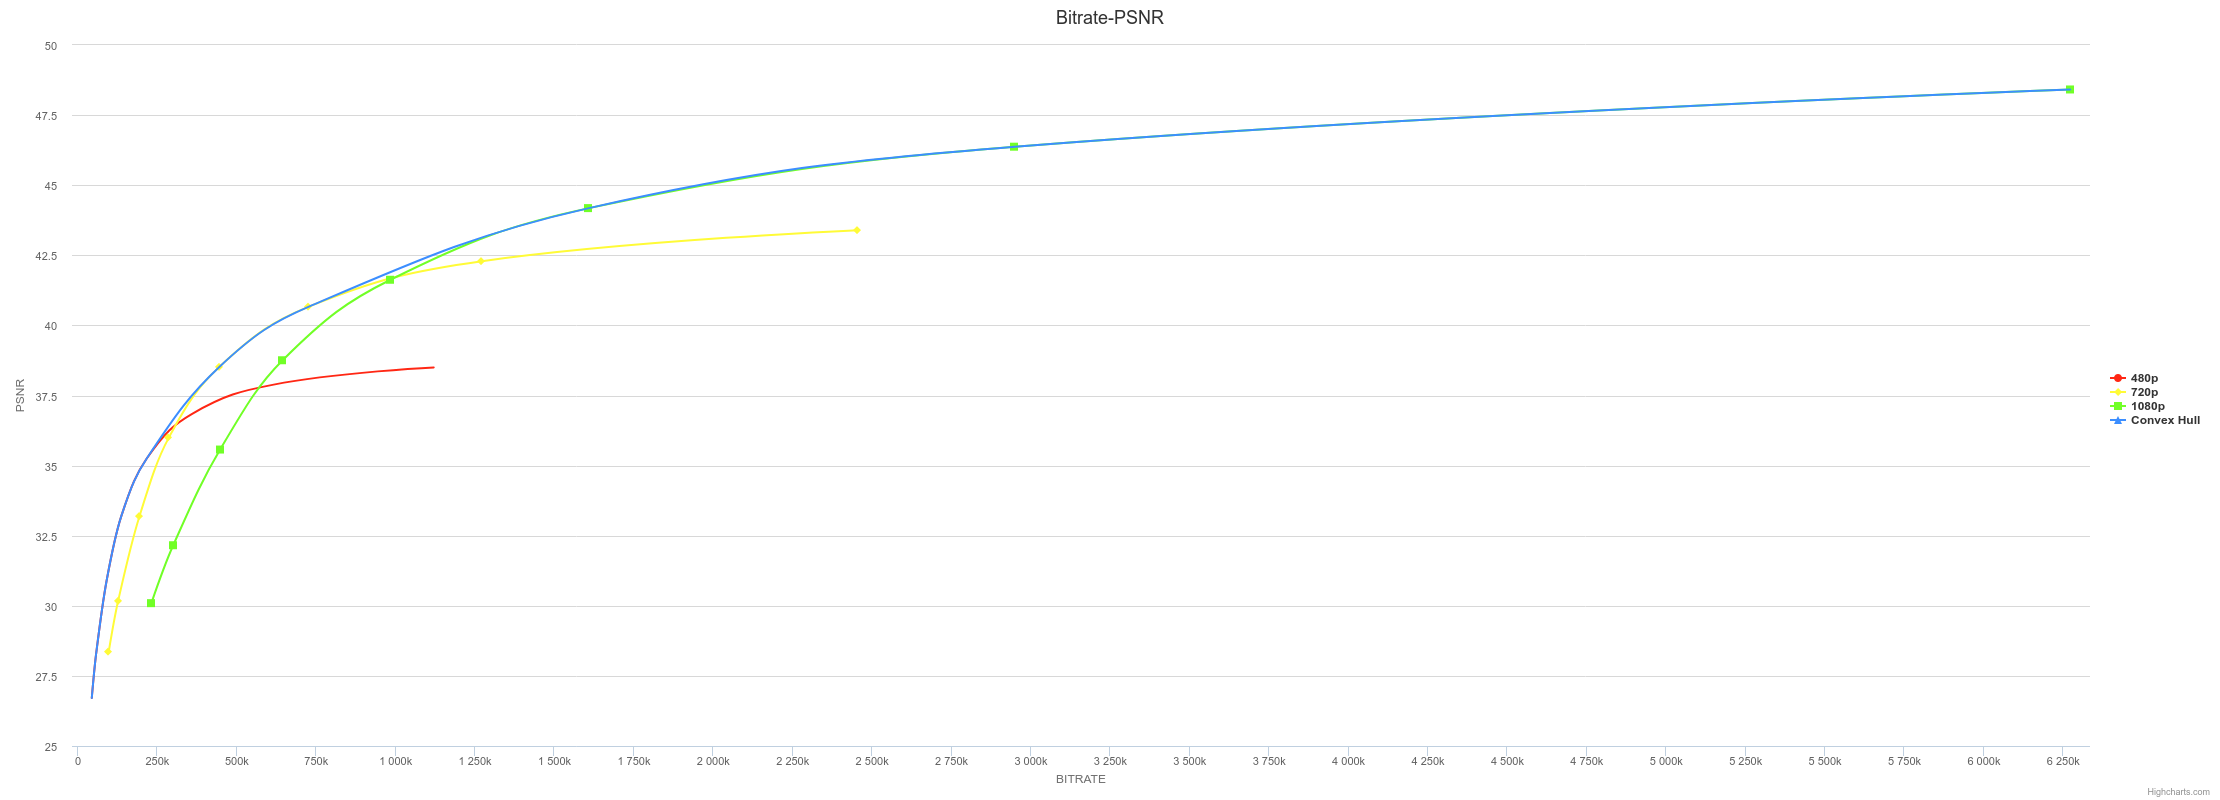
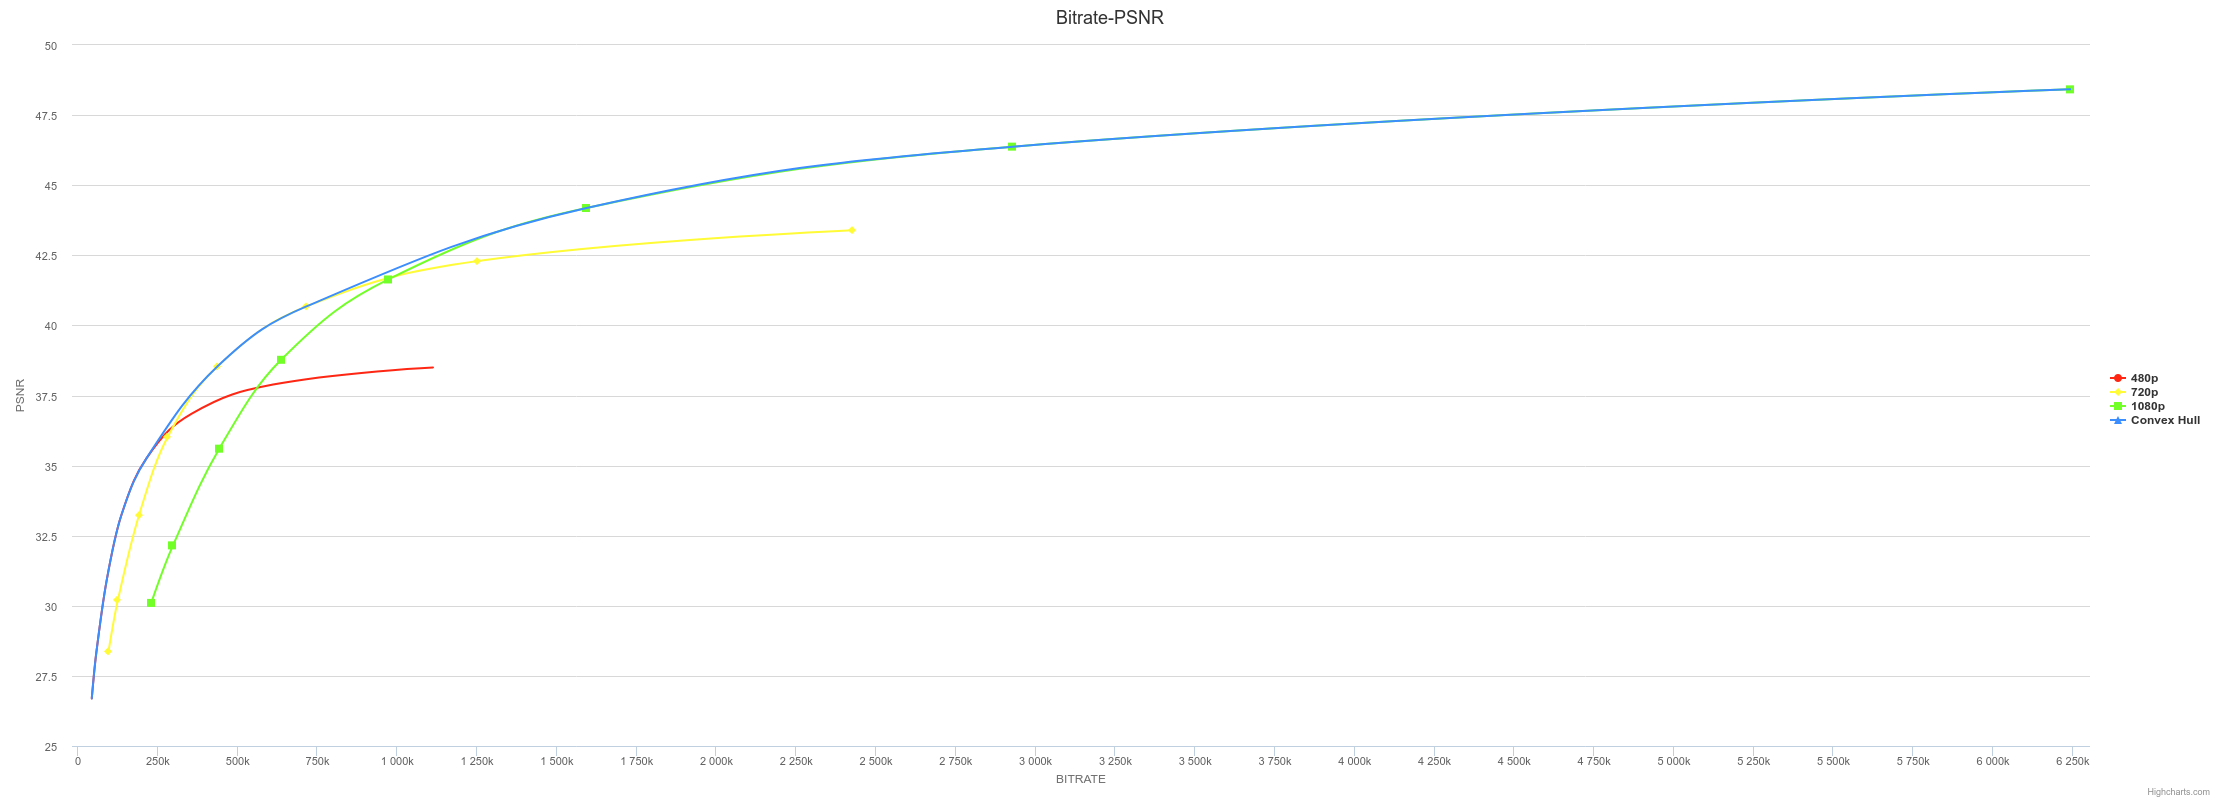
added new plots and added filename for chart file

diff --git a/src/BigKill1min1.html b/src/BigKill1min1.html
@@ -1,6 +1,6 @@
 <html>
 <head>
-    <title>Highcharts Client-Side Export module</title>
+    <title>Encoding plots for BigKill1min</title>
 
     <meta charset="UTF-8">
 
@@ -9,9 +9,9 @@
 </head>
 <body>
 <div class="container">
-    <h1>Highcharts Client-Side Export module</h1>
+    <h1>Encoding plots for BigKill1min</h1>
 
-    <div class="highcharts-container" id="example-1"></div>
+    <div class="highcharts-container" id="encodedChart"></div>
 
 
     <script src="bower_components/jquery/dist/jquery.min.js"></script>
@@ -38,7 +38,7 @@
     </script>
 
     <script>
-        $('#example-1').highcharts({
+        $('#encodedChart').highcharts({
             title: {
                 text: 'Bitrate-PSNR'
 
@@ -71,17 +71,21 @@
             colors: ['#FF2714', '#FFFB37','#71FF27','#3C8EFF'],
             series: [{
                 name: '480p',
-                data:[[30049,23.169607],[33413,23.296609],[54788,23.703465],[87898,23.855704],[143860,23.902133],[241944,23.91187],[426805,23.912211],[795827,23.910381]]
+                data:[[30049,23.169607],[41128,23.511388],[66288,23.782689],[107154,23.880668],[175996,23.908132],[301649,23.912058],[544395,23.911468],[1036657,23.909448]]
             }, {
                 name: '720p',
-                data:[[65189,23.506791],[72362,23.583342],[117267,23.846081],[185303,23.905994],[299339,23.909201],[502071,23.899726],[891947,23.889742],[1715798,23.883077]]
+                data:[[65189,23.506791],[88397,23.721296],[140718,23.883483],[223696,23.908125],[366776,23.906206],[626997,23.895524],[1149039,23.886806],[2281218,23.881228]]
             }, {
                     name: '1080p',
-                    data:[[155309,23.650978],[170675,23.715938],[272966,23.887257],[419266,23.908772],[669244,23.90083],[1125207,23.886772],[2064159,23.875785],[4240915,23.867694]]
+                    data:[[155309,23.650978],[208076,23.810913],[323439,23.902117],[503119,23.907885],[817107,23.89542],[1414601,23.882115],[2726354,23.8721],[5776997,23.865929]]
                 }, {
                     name: 'Convex Hull',
-                    data:[[30049,23.169607],[33413,23.296609],[54788,23.703465],[87898,23.855704],[143860,23.902133],[241944,23.91187],[426805,23.912211],[795827,23.910381],[4240915,23.867694]]
-                }]
+                    data:[[30049,23.169607],[41128,23.511388],[66288,23.782689],[107154,23.880668],[175996,23.908132],[301649,23.912058],[544395,23.911468],[1036657,23.909448],[5776997,23.865929]]
+                }],
+            exporting: {
+                filename: 'BigKill1min'
+
+            }
         });
     </script>
 

diff --git a/src/SpiesInDisguise1.html b/src/SpiesInDisguise1.html
@@ -1,6 +1,6 @@
 <html>
 <head>
-    <title>Highcharts Client-Side Export module</title>
+    <title>Encoding plots for SpiesInDisguise</title>
 
     <meta charset="UTF-8">
 
@@ -9,7 +9,7 @@
 </head>
 <body>
 <div class="container">
-    <h1>Highcharts Client-Side Export module</h1>
+    <h1>Encoding plots for SpiesInDisguise</h1>
 
     <div class="highcharts-container" id="example-1"></div>
 
@@ -71,16 +71,16 @@
             colors: ['#FF2714', '#FFFB37','#71FF27','#3C8EFF'],
             series: [{
                 name: '480p',
-                data:[[43335,26.712582],[57199,28.298952],[89815,30.882939],[136536,33.20907],[216314,35.253849],[357996,36.839412],[615994,37.888422],[1119869,38.502419]]
+                data:[[42792,26.697349],[56646,28.295891],[89180,30.890583],[134857,33.210068],[214022,35.256782],[354813,36.843282],[610867,37.888811],[1111913,38.502096]]
             }, {
                 name: '720p',
-                data:[[96692,28.362426],[126359,30.177229],[193459,33.195352],[286249,36.00699],[444754,38.519173],[726983,40.668907],[1271557,42.290306],[2454802,43.395833]]
+                data:[[95282,28.37628],[124751,30.212638],[190765,33.231747],[280899,36.026976],[437100,38.541866],[715219,40.676972],[1252552,42.295826],[2426801,43.397069]]
             }, {
                     name: '1080p',
-                    data:[[230895,30.094213],[299723,32.159764],[447381,35.572558],[644215,38.75705],[983655,41.627653],[1608446,44.183189],[2949443,46.373149],[6271752,48.414021]]
+                    data:[[228981,30.102869],[297161,32.155076],[442136,35.603594],[636091,38.773637],[971749,41.638431],[1593064,44.187553],[2928519,46.375179],[6241709,48.417799]]
                 }, {
                     name: 'Convex Hull',
-                    data:[[43335,26.712582],[57199,28.298952],[89815,30.882939],[136536,33.20907],[216314,35.253849],[444754,38.519173],[726983,40.668907],[1608446,44.183189],[2949443,46.373149],[6271752,48.414021]]
+                    data:[[42792,26.697349],[56646,28.295891],[89180,30.890583],[134857,33.210068],[214022,35.256782],[437100,38.541866],[715219,40.676972],[1593064,44.187553],[2928519,46.375179],[6241709,48.417799]]
                 }]
         });
     </script>

diff --git a/src/EncodingApplication.js b/src/EncodingApplication.js
@@ -1,4 +1,4 @@
-var inputVideoFile = "../resource/TOS3sec.mp4";
+var inputVideoFile = "../resource/Sparks2min.mp4";
 var commonName = inputVideoFile.split('resource/')[1].split('.')[0];
 var ffmpeg = require('fluent-ffmpeg');
 var fs = require('fs');
@@ -256,7 +256,7 @@ function printHullPoints() {
 
    var htmlData = "<html>\n" +
         "<head>\n" +
-        "    <title>Highcharts Client-Side Export module</title>\n" +
+        "    <title>Encoding plots for "+commonName+"</title>\n" +
         "\n" +
         "    <meta charset=\"UTF-8\">\n" +
         "\n" +
@@ -265,9 +265,9 @@ function printHullPoints() {
         "</head>\n" +
         "<body>\n" +
         "<div class=\"container\">\n" +
-        "    <h1>Highcharts Client-Side Export module</h1>\n" +
+        "    <h1>Encoding plots for "+commonName+"</h1>\n" +
         "\n" +
-        "    <div class=\"highcharts-container\" id=\"example-1\"></div>\n" +
+        "    <div class=\"highcharts-container\" id=\"encodedChart\"></div>\n" +
         "\n" +
         "\n" +
         "    <script src=\"bower_components/jquery/dist/jquery.min.js\"></script>\n" +
@@ -294,7 +294,7 @@ function printHullPoints() {
         "    </script>\n" +
         "\n" +
         "    <script>\n" +
-        "        $('#example-1').highcharts({\n" +
+        "        $('#encodedChart').highcharts({\n" +
         "            title: {\n" +
         "                text: 'Bitrate-PSNR'\n" +
         "\n" +
@@ -337,7 +337,11 @@ function printHullPoints() {
         "                }, {\n" +
         "                    name: 'Convex Hull',\n" +
         "                    data:"+JSON.stringify(hull2D)+"\n" +
-        "                }]\n" +
+        "                }],\n" +
+       "            exporting: {\n" +
+       "                filename: '"+commonName+"'\n" +
+       "\n" +
+       "            }\n" +
         "        });\n" +
         "    </script>\n" +
         "\n" +
@@ -474,7 +478,7 @@ app.use(express.static('public'));
 app.use(express.static('images'));
 
 app.get('/start', function(req, res){
-    res.send("Start");
+    res.send("Encoding has begun..");
     processingInputFile(18,640,480,0);
 });
 

diff --git a/src/BBB2min1.html b/src/BBB2min1.html
@@ -1,6 +1,6 @@
 <html>
 <head>
-    <title>Highcharts Client-Side Export module</title>
+    <title>Encoding plots for BBB2min</title>
 
     <meta charset="UTF-8">
 
@@ -71,16 +71,16 @@
             colors: ['#FF2714', '#FFFB37','#71FF27','#3C8EFF'],
             series: [{
                 name: '480p',
-                data:[[22522,25.481455],[31826,26.686528],[54299,28.619178],[91075,30.386906],[160397,32.03424],[300431,33.416833],[590437,34.350461],[1193035,34.872407]]
+                data:[[22430,25.463314],[31789,26.692328],[54211,28.622372],[90950,30.390267],[160233,32.037269],[299555,33.418234],[589580,34.351634],[1191310,34.872815]]
             }, {
                 name: '720p',
-                data:[[50660,26.522935],[72812,27.916255],[122786,30.205606],[203587,32.371509],[351648,34.513896],[640855,36.419914],[1245811,37.843725],[2547572,38.75585]]
+                data:[[50383,26.516839],[72126,27.918065],[121857,30.204446],[202392,32.372706],[349874,34.513581],[638477,36.421936],[1242439,37.844616],[2542152,38.755836]]
             }, {
                     name: '1080p',
-                    data:[[126631,27.719809],[180622,29.381096],[299548,32.097741],[487828,34.806637],[838818,37.694172],[1558252,40.656815],[3130253,43.547869],[6363330,46.560027]]
+                    data:[[126709,27.733408],[180150,29.387241],[298155,32.100225],[485906,34.813372],[837032,37.698724],[1555564,40.659481],[3126578,43.551169],[6355335,46.565039]]
                 }, {
                     name: 'Convex Hull',
-                    data:[[22522,25.481455],[31826,26.686528],[54299,28.619178],[91075,30.386906],[160397,32.03424],[351648,34.513896],[640855,36.419914],[838818,37.694172],[1558252,40.656815],[3130253,43.547869],[6363330,46.560027]]
+                    data:[[22430,25.463314],[31789,26.692328],[54211,28.622372],[90950,30.390267],[160233,32.037269],[349874,34.513581],[638477,36.421936],[837032,37.698724],[1555564,40.659481],[3126578,43.551169],[6355335,46.565039]]
                 }]
         });
     </script>

diff --git a/src/unlovable1.html b/src/unlovable1.html
@@ -71,16 +71,16 @@
             colors: ['#FF2714', '#FFFB37','#71FF27','#3C8EFF'],
             series: [{
                 name: '480p',
-                data:[[43397,22.189629],[48583,22.33489],[85866,22.923341],[142522,23.154347],[243312,23.239222],[422614,23.263794],[740490,23.265276],[1315306,23.259287]]
+                data:[[26134,27.772105],[35774,29.296847],[58743,31.820215],[94367,33.935719],[153455,35.592585],[258347,36.784353],[462936,37.560342],[900462,38.014409]]
             }, {
                 name: '720p',
-                data:[[96613,22.78175],[110778,22.870035],[188566,23.17337],[310481,23.244383],[521547,23.245849],[888492,23.231091],[1530821,23.215018],[2698643,23.204478]]
+                data:[[57091,29.050098],[77793,30.877518],[124682,33.925028],[196076,36.532986],[316286,38.663631],[537867,40.31283],[1012950,41.485537],[2202857,42.252454]]
             }, {
                     name: '1080p',
-                    data:[[228204,23.064825],[256322,23.104123],[433851,23.23335],[702457,23.251643],[1160665,23.235611],[1946622,23.214245],[3334542,23.194825],[5883266,23.184862]]
+                    data:[[139945,30.475481],[188892,32.550225],[292976,36.040155],[453130,39.108142],[739028,41.812806],[1359723,44.144956],[3075419,46.225776],[7233924,48.918792]]
                 }, {
                     name: 'Convex Hull',
-                    data:[[43397,22.189629],[48583,22.33489],[85866,22.923341],[142522,23.154347],[243312,23.239222],[422614,23.263794],[740490,23.265276],[1315306,23.259287],[5883266,23.184862]]
+                    data:[[26134,27.772105],[35774,29.296847],[58743,31.820215],[94367,33.935719],[153455,35.592585],[196076,36.532986],[316286,38.663631],[739028,41.812806],[1359723,44.144956],[3075419,46.225776],[7233924,48.918792]]
                 }]
         });
     </script>

diff --git a/src/TOS3sec1.html b/src/TOS3sec1.html
@@ -1,6 +1,6 @@
 <html>
 <head>
-    <title>Highcharts Client-Side Export module</title>
+    <title>Encoding plots for TOS3sec</title>
 
     <meta charset="UTF-8">
 
@@ -9,9 +9,9 @@
 </head>
 <body>
 <div class="container">
-    <h1>Highcharts Client-Side Export module</h1>
+    <h1>Encoding plots for TOS3sec</h1>
 
-    <div class="highcharts-container" id="example-1"></div>
+    <div class="highcharts-container" id="encodedChart"></div>
 
 
     <script src="bower_components/jquery/dist/jquery.min.js"></script>
@@ -38,7 +38,7 @@
     </script>
 
     <script>
-        $('#example-1').highcharts({
+        $('#encodedChart').highcharts({
             title: {
                 text: 'Bitrate-PSNR'
 
@@ -81,7 +81,11 @@
                 }, {
                     name: 'Convex Hull',
                     data:[[43397,22.189629],[61599,22.612987],[104647,23.056756],[175763,23.205258],[303223,23.256914],[527699,23.266057],[928974,23.264141],[1670725,23.256211],[7463123,23.182201]]
-                }]
+                }],
+            exporting: {
+                filename: 'TOS3sec'
+
+            }
         });
     </script>
 

diff --git a/src/Quake2min1.html b/src/Quake2min1.html
@@ -1,6 +1,6 @@
 <html>
 <head>
-    <title>Highcharts Client-Side Export module</title>
+    <title>Encoding plots for Quake2min</title>
 
     <meta charset="UTF-8">
 
@@ -9,7 +9,7 @@
 </head>
 <body>
 <div class="container">
-    <h1>Highcharts Client-Side Export module</h1>
+    <h1>Encoding plots for Quake2min</h1>
 
     <div class="highcharts-container" id="example-1"></div>
 

diff --git a/src/MonsterParty1.html b/src/MonsterParty1.html
@@ -1,6 +1,6 @@
 <html>
 <head>
-    <title>Highcharts Client-Side Export module</title>
+    <title>Encoding plots for MonsterParty</title>
 
     <meta charset="UTF-8">
 
